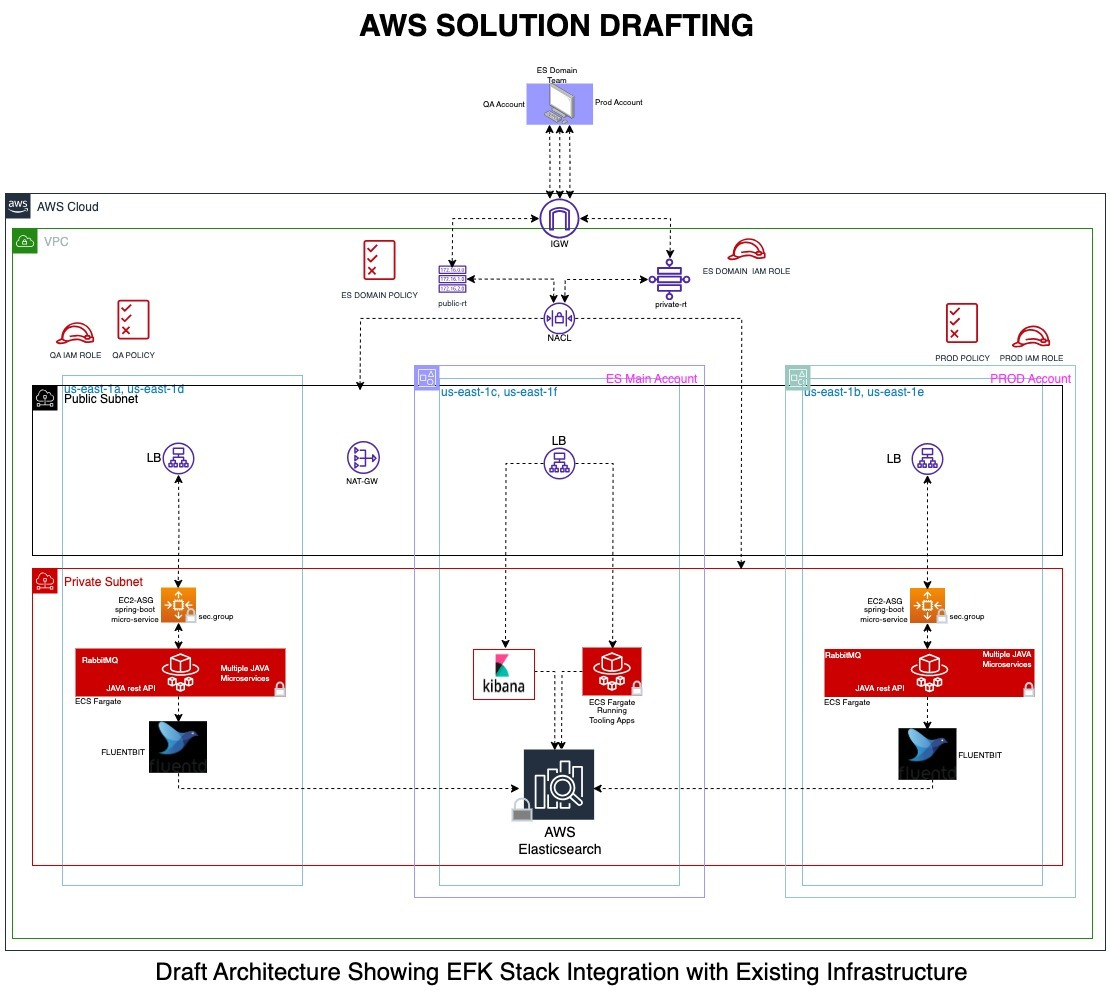
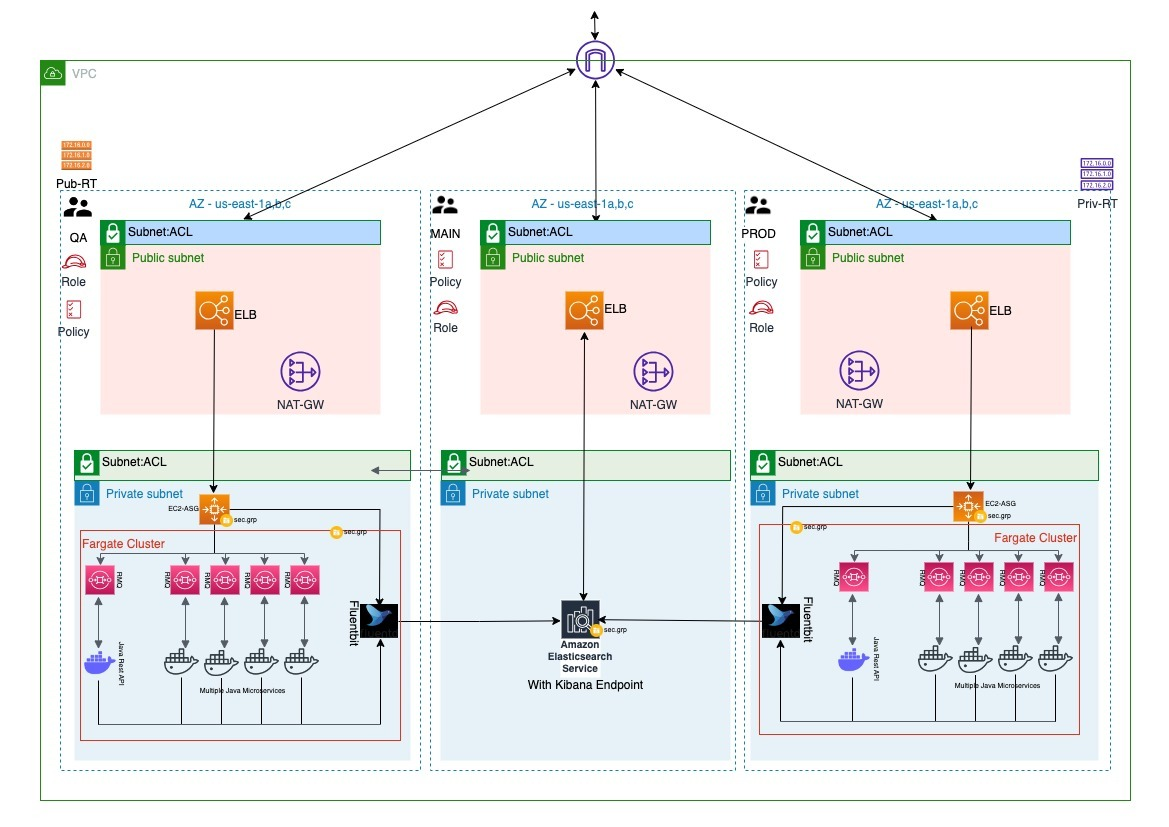
modified_version

diff --git a/README.md b/README.md
@@ -177,23 +177,16 @@ The code development stage is where the actual implementation of the SaaS applic
 ### Here are the high-level steps I will take to address the team's need for a centralized logging solution for their distributed application.
                                     
 
-1. I will **familiarise myself with the existing setup** to get a good understanding of the current architecture. If the existing architecture is robust enough with **high availability** and **security**, I will build the new setup in the **already existing network infrastructure**. So the final infrastructure will run in the `same VPC`. I will also develop basic `Terraform` templates (if not already available)to `enable flexible deployment` of the planned infrastructure.
+1. I will **familiarise myself with the existing setup** to get a good understanding of the current architecture. If the existing architecture is robust enough with **high availability** and **security**, I will build the new setup in the **already existing network infrastructure**. So the final infrastructure will run in the `same VPC`. 
 
-2. First I will set up the `AWS Elastic Search domain` to achieve a **centralized storage location** for the log data from both enviroments in the already existing setup. The infrastructure will consist of the `AWS ES domain` and `AWS Fargate running kibana and tooling apps`. To achieve `high availability`, this setup will be provisioned in **two availability zones**. To ensure network `security`, all services in this setup will be provisioned in the `private subnet` with a `loadbalancer` in  the `public subnet`, listening to incoming traffic. A `main account` will also be setup with `IAM roles` and `policy permissions` for **resources** and **users**. 
+2. First I will set up the `AWS Elastic Search domain` to achieve a **centralized storage location** for the log data from both enviroments (qa and prod) in the already existing setup. To achieve `high availability`, this setup will be provisioned in **three availability zones**. To ensure network `security`, all services in this setup will be provisioned in the `private subnet` with a `loadbalancer` in  the `public subnet`, listening to incoming traffic. A `main account` will also be setup with `IAM roles` and `policy permissions` for **resources** and **users**. 
 
-3. To avoid `downtime` in Production, I will `migrate the QA Environment`, since it is identical to PROD by resources provisioned in them. All QA team users will be moved to `PROD and assigned permissions` according to their **roles** so they can access the same resources in the PROD environment until the QA environment is fully setup.
+3. In the two environments `QA and PROD`, I will replace `cloud watch with Fluentbit` and move `Fluentbit and the other existing infrastructure` to the `private subnet`. A `load balancer` in the `public subnet` will be listening and `distributing traffic` to **all applications** in the `private subnet`. The `QA and PROD environmentS` will be able to get regular updates and upgrades via a `NAT gateway`, associated to the `private route-table`. 
 
-4. During the `QA setup`, I will **increase the compute and storage resources** for the `auto-scaled EC2 instances` the PROD environment to accommodate the impact of QA testing. I will do this by increasing the number of `desired instances` in the auto-scaling group configuration. 
+4. Finally, the QA and PROD environments will have incoming traffic from the load balancer hitting the EC2 auto-scaled application which sends the traffic to the queueing service (RabbitMQ) running in Fargate. The various java microservice applications in Fargate will respond by pulling and consuming the messages in their respective RabbitMQ's.  
+Since Fluentbit is now configured, it will collect logs from the different applications making up the distributed application, skynet-app and forward them to the AWS Elastic Search domain, allowing for centralized log management and analysis. AWS Elastic Search domain provides a kibana endpoint for log accessing, visualization and analysis.
 
-5. In the `QA environment`, I will replace `cloud watch with Fluentbit` and move `Fluentbit and the other existing infrastructure` to the `private subnet`. A `load balancer` in the `public subnet` will be listening and `distributing traffic` to **all applications** in the `private subnet`. The `QA environment` will be able to get regular updates and upgrades via a `NAT gateway`, connected to the `private route-table` once the setup is complete. 
-
-6. While the `QA environment` is undergoing this migration, the `PROD environment` will continue to use `cloudwatch` until the QA is fully setup with the ability to search and read the logs in an aggregated fashion using the kibana dashboard. Once the QA setup is complete and `connected to AWS ES domain via the fluentbit configuration`, all users (QA and PROD) will be migrated to the QA environment with the necessary IAM roles and permissions assigned.
-I will repeat the process from step 3 to completion for the PROD environment. This time the QA environment becomes the PROD until PROD is fully setup. 
-
-7. Finally, the QA and PROD environments will have incoming traffic from the load balancer hitting the EC2 auto-scaled application and the applications in Fargate. The EC2 applicaton and the various applications in Fargate respond by sending messages to their respective RabbitMQ. This `service-to-service design` enables all the applications to commuinicate seamlessly with themselves. 
-Since Fluentbit is now configured, it will collect logs from the different microservices and forward them to the AWS Elastic Search domain, allowing for centralized log management and analysis. Kibana in turn pulls logs from Elasticsearch for visualization and analysis.
-
-8. The applications in all three environments will be deployed in multiple availability zones and will exist in the private subnet for security. Load balancers will be setup in the public subnet to distribute incoming traffic to the necessary applications. The NAT gateway which I will connect with the private route table to allow the applications a secure access outside the VPC when updates and upgrades are required.   
+5. The applications in all three environments will be deployed in multiple availability zones and will exist in the private subnet for security. Load balancers will be setup in the public subnet to distribute incoming traffic to the necessary applications. The NAT gateway will be associated with the private route table to allow the applications a secure access outside the VPC when updates and upgrades are required.   
 
 ![](./my-api/Schematic.jpeg)
 
